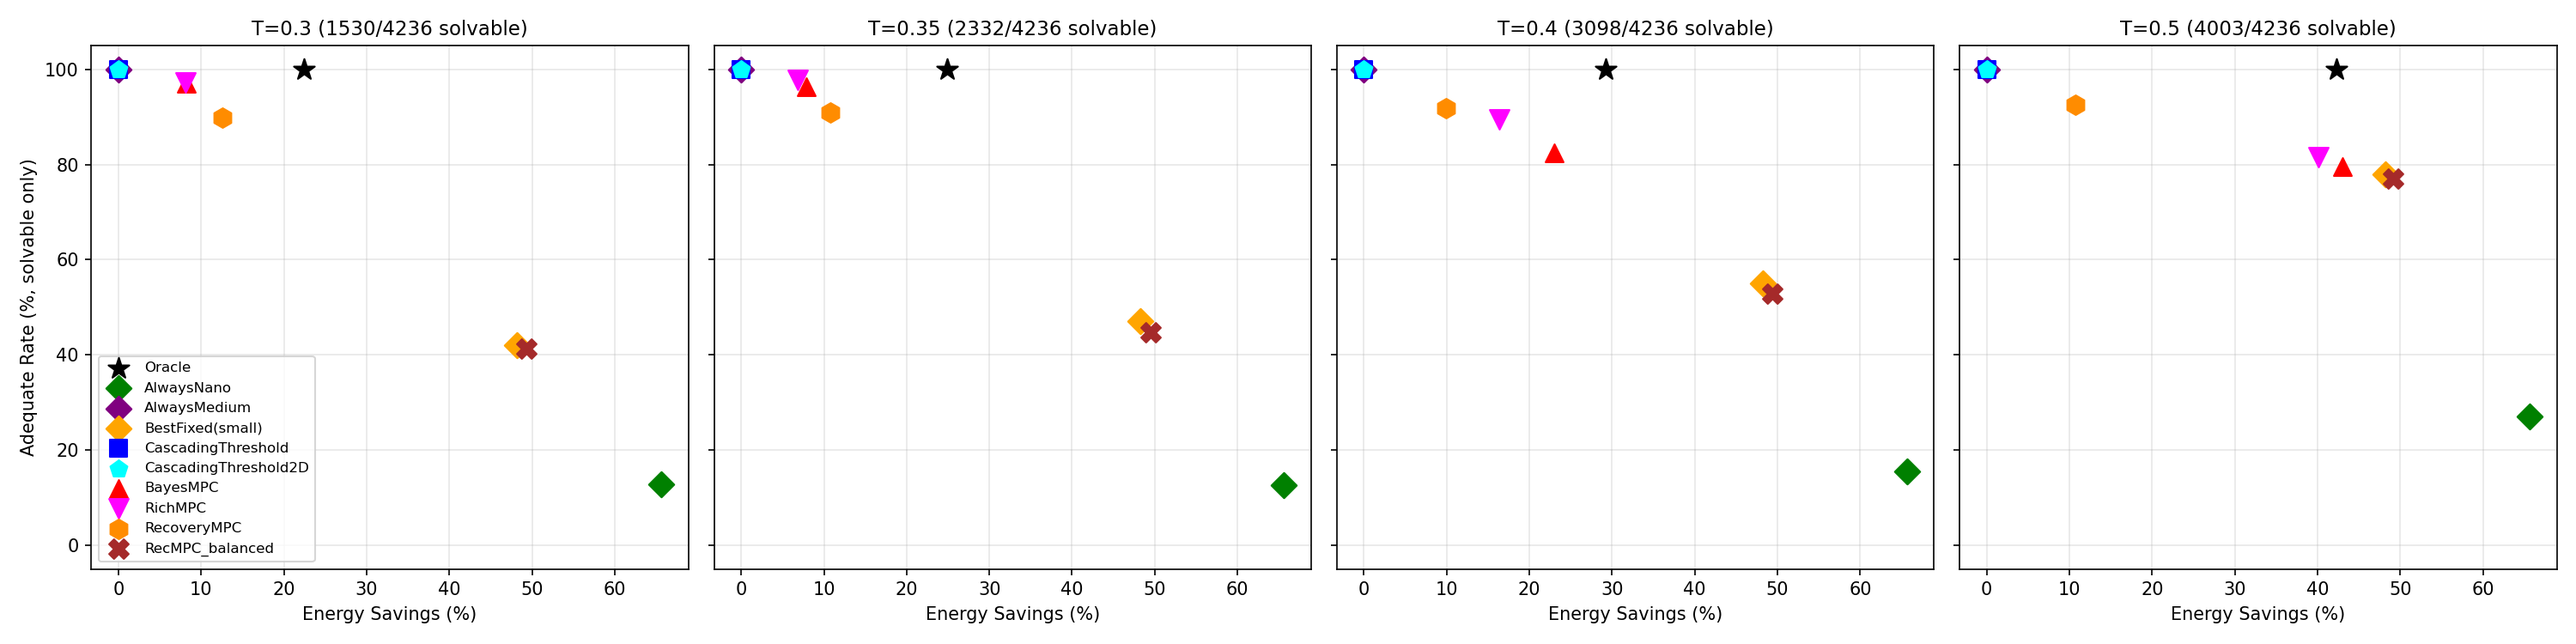
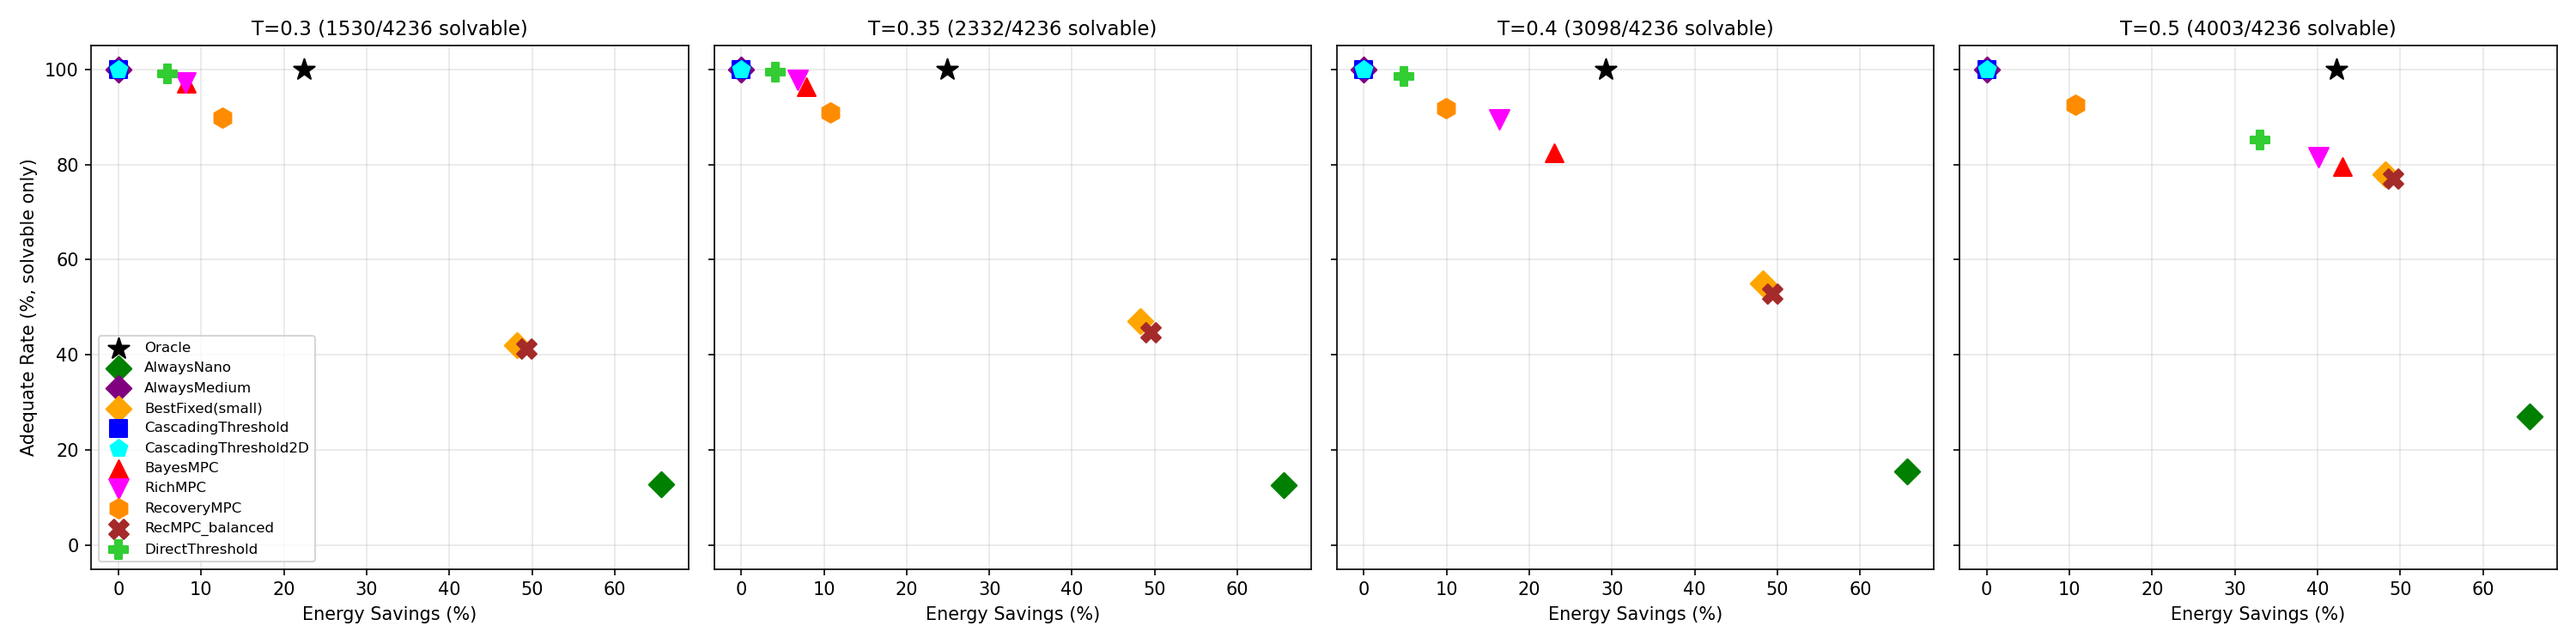
controller_rerun: add DirectThreshold (oracle-mimic with safety margins)
DirectThreshold asks "can I use the cheapest model?" with safety margins
on predicted miss rates. Achieves highest adequacy of any non-trivial
controller: 99.4% at T=0.35, 98.5% at T=0.40, 85.2% at T=0.50.

At T=0.50: 33% savings at 85% adequacy — best savings/adequacy balance.
Mostly conservative (89-93% medium at tight thresholds), but at T=0.50
uses 10% nano / 55% small / 35% medium approaching Oracle's distribution.

diff --git a/controller_rerun/run_controller.py b/controller_rerun/run_controller.py
@@ -398,6 +398,42 @@ def optimize_recovery_mpc_balanced(train_df, threshold):
     return best_config
 
 
+def direct_threshold(df, threshold, margin_nano, margin_small):
+    """Mimic oracle: pick cheapest model whose predicted miss rate < T - margin."""
+    selections = []
+    for _, row in df.iterrows():
+        pred_nano = row["pred_nano"]
+        pred_small = row["pred_small"]
+        if pred_nano < threshold - margin_nano:
+            selections.append(0)
+        elif pred_small < threshold - margin_small:
+            selections.append(1)
+        else:
+            selections.append(2)
+    return selections
+
+
+def optimize_direct_threshold(train_df, threshold):
+    margins = [0.00, 0.02, 0.05, 0.08, 0.10, 0.15, 0.20]
+    n_configs = len(margins) ** 2
+    print(f"    Grid search: {n_configs} configs at threshold={threshold}", flush=True)
+
+    best_score = -1.0
+    best_mn, best_ms = 0.10, 0.10
+
+    for mn in margins:
+        for ms in margins:
+            sels = direct_threshold(train_df, threshold, mn, ms)
+            metrics = evaluate(train_df, sels, threshold)
+            score = (metrics["adequate_rate"] / 100
+                     + 0.5 * metrics["energy_savings_pct"] / 100)
+            if score > best_score:
+                best_score = score
+                best_mn, best_ms = mn, ms
+
+    return best_mn, best_ms
+
+
 def rich_mpc(df, lambda_u, lambda_o, threshold):
     """RichMPC: Bayes Risk with both lambda_under and lambda_over."""
     e_norm = {m: ENERGY[m] / E_MEDIUM for m in range(3)}
@@ -595,6 +631,22 @@ def main():
               f"nano={metrics['pct_nano']:.0f}% sm={metrics['pct_small']:.0f}% "
               f"med={metrics['pct_medium']:.0f}%  config={best_bal}", flush=True)
 
+        # DirectThreshold
+        print(f"    Optimizing DirectThreshold...", flush=True)
+        best_mn, best_ms = optimize_direct_threshold(train_df, threshold)
+        sels = direct_threshold(test_df, threshold, best_mn, best_ms)
+        metrics = evaluate(test_df, sels, threshold)
+        metrics["threshold"] = threshold
+        metrics["controller"] = (f"DirectThreshold(mn={best_mn:.2f},"
+                                 f"ms={best_ms:.2f})")
+        all_results.append(metrics)
+        print(f"    {'DirectThreshold':25s}: savings={metrics['energy_savings_pct']:5.1f}%  "
+              f"adequate={metrics['adequate_rate']:5.1f}%  "
+              f"correct={metrics['correct_rate']:5.1f}%  "
+              f"nano={metrics['pct_nano']:.0f}% sm={metrics['pct_small']:.0f}% "
+              f"med={metrics['pct_medium']:.0f}%  "
+              f"mn={best_mn:.2f} ms={best_ms:.2f}", flush=True)
+
     # Save TSV
     cols = ["threshold", "n_solvable", "n_total", "controller",
             "energy_savings_pct", "adequate_rate", "correct_rate",
@@ -664,6 +716,12 @@ def main():
         ax.scatter(bal_r["energy_savings_pct"], bal_r["adequate_rate"],
                   c="brown", s=120, marker="X", zorder=6, label="RecMPC_balanced")
 
+        # DirectThreshold
+        dt_r = next(r for r in t_results
+                    if r["controller"].startswith("DirectThreshold"))
+        ax.scatter(dt_r["energy_savings_pct"], dt_r["adequate_rate"],
+                  c="limegreen", s=120, marker="P", zorder=6, label="DirectThreshold")
+
         n_solv = next(r for r in t_results)["n_solvable"]
         n_tot = next(r for r in t_results)["n_total"]
         ax.set_title(f"T={threshold} ({n_solv}/{n_tot} solvable)", fontsize=11)
@@ -710,15 +768,19 @@ def main():
               f"{cascade2d_r['adequate_rate']:5.1f}% adequate")
         print(f"    RecoveryMPC:        {rec_r['energy_savings_pct']:5.1f}% savings, "
               f"{rec_r['adequate_rate']:5.1f}% adequate")
+        dt_r = next(r for r in t_results
+                    if r["controller"].startswith("DirectThreshold"))
         print(f"    RecMPC_balanced:    {bal_r['energy_savings_pct']:5.1f}% savings, "
               f"{bal_r['adequate_rate']:5.1f}% adequate")
+        print(f"    DirectThreshold:    {dt_r['energy_savings_pct']:5.1f}% savings, "
+              f"{dt_r['adequate_rate']:5.1f}% adequate")
 
     # ── Comparison table ─────────────────────────────────────────
     print(f"\n{'='*70}")
     print(f"  COMPARISON: BayesMPC vs RichMPC vs RecoveryMPC vs Oracle")
     print(f"{'='*70}")
     print(f"  {'Thresh':>6s} | {'BayesMPC':>16s} | {'RichMPC':>16s} | "
-          f"{'RecoveryMPC':>16s} | {'RecMPC_bal':>16s} | {'Oracle':>8s}")
+          f"{'RecoveryMPC':>16s} | {'DirectThresh':>16s} | {'Oracle':>8s}")
     print(f"  {'-'*90}")
     for threshold in THRESHOLDS:
         t_results = [r for r in all_results if r["threshold"] == threshold]
@@ -729,31 +791,30 @@ def main():
                       if r["controller"].startswith("RichMPC"))
         rec_r = next(r for r in t_results
                      if r["controller"].startswith("RecoveryMPC("))
-        bal_r = next(r for r in t_results
-                     if r["controller"].startswith("RecoveryMPC_balanced"))
+        dt_r = next(r for r in t_results
+                    if r["controller"].startswith("DirectThreshold"))
         print(f"  {threshold:>6.2f} | "
               f"{bayes_r['energy_savings_pct']:5.1f}%/{bayes_r['adequate_rate']:5.1f}% | "
               f"{rich_r['energy_savings_pct']:5.1f}%/{rich_r['adequate_rate']:5.1f}% | "
               f"{rec_r['energy_savings_pct']:5.1f}%/{rec_r['adequate_rate']:5.1f}% | "
-              f"{bal_r['energy_savings_pct']:5.1f}%/{bal_r['adequate_rate']:5.1f}% | "
+              f"{dt_r['energy_savings_pct']:5.1f}%/{dt_r['adequate_rate']:5.1f}% | "
               f"{oracle_r['energy_savings_pct']:5.1f}%")
 
-    # ── RecoveryMPC vs balanced model distribution ───────────────
+    # ── Model distribution comparison ──────────────────────────
     print(f"\n{'='*70}")
-    print(f"  MODEL DISTRIBUTION: RecoveryMPC vs RecoveryMPC_balanced")
+    print(f"  MODEL DISTRIBUTION: DirectThreshold vs Oracle")
     print(f"{'='*70}")
-    print(f"  {'Thresh':>6s} | {'RecMPC nano/sm/med':>22s} | {'Balanced nano/sm/med':>22s}")
+    print(f"  {'Thresh':>6s} | {'Oracle nano/sm/med':>22s} | {'DirectTh nano/sm/med':>22s}")
     print(f"  {'-'*60}")
     for threshold in THRESHOLDS:
         t_results = [r for r in all_results if r["threshold"] == threshold]
-        rec_r = next(r for r in t_results
-                     if r["controller"].startswith("RecoveryMPC("))
-        bal_r = next(r for r in t_results
-                     if r["controller"].startswith("RecoveryMPC_balanced"))
+        oracle_r = next(r for r in t_results if r["controller"] == "Oracle")
+        dt_r = next(r for r in t_results
+                    if r["controller"].startswith("DirectThreshold"))
         print(f"  {threshold:>6.2f} | "
-              f"{rec_r['pct_nano']:4.0f}%/{rec_r['pct_small']:4.0f}%/{rec_r['pct_medium']:4.0f}%"
+              f"{oracle_r['pct_nano']:4.0f}%/{oracle_r['pct_small']:4.0f}%/{oracle_r['pct_medium']:4.0f}%"
               f"          | "
-              f"{bal_r['pct_nano']:4.0f}%/{bal_r['pct_small']:4.0f}%/{bal_r['pct_medium']:4.0f}%")
+              f"{dt_r['pct_nano']:4.0f}%/{dt_r['pct_small']:4.0f}%/{dt_r['pct_medium']:4.0f}%")
 
     elapsed = time.time() - t_start
     print(f"\n  Total time: {elapsed:.1f}s", flush=True)
